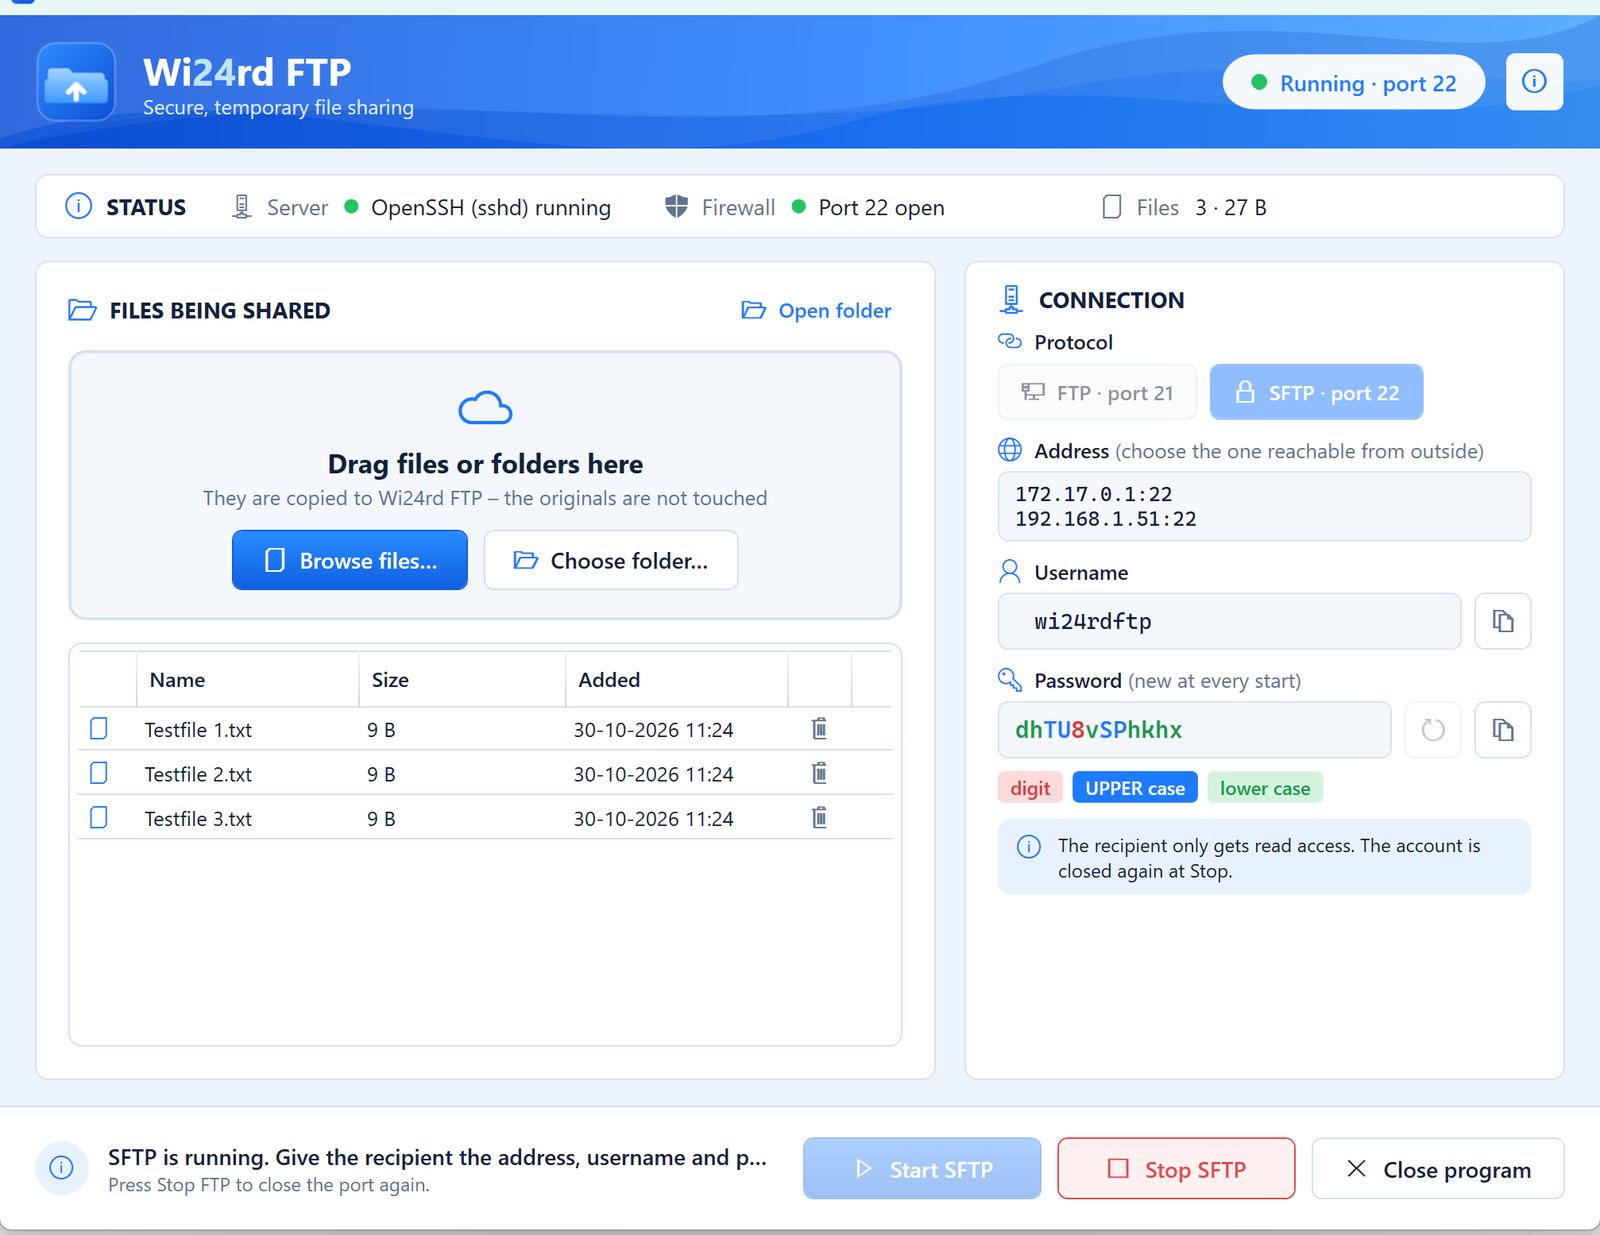
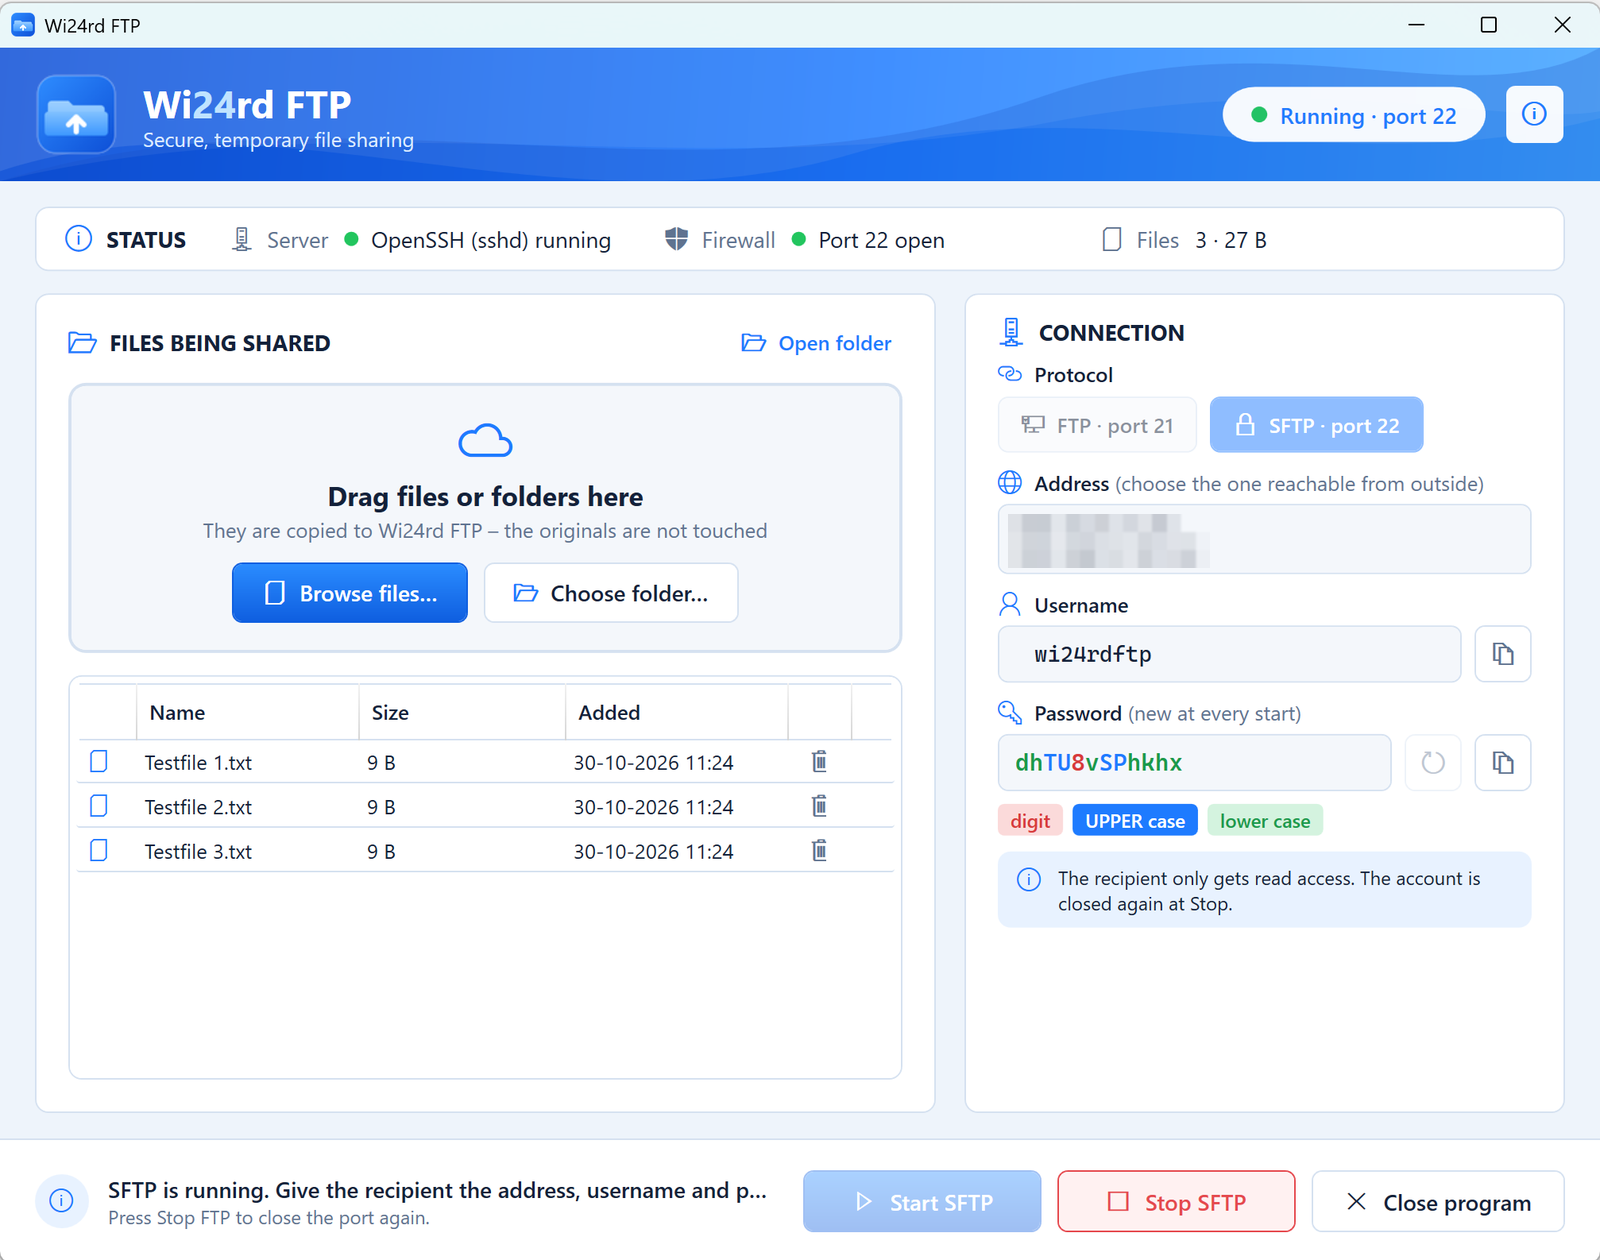
Fix SFTP sshd_config seeding, single delete prompt, button styling, bottom bar wrapping, live backend progress, preinstall OpenSSH, READMEs with download button, screenshot, free/no-tracking notice

diff --git a/README.da.md b/README.da.md
@@ -8,10 +8,16 @@
 [![Release](https://img.shields.io/github/v/release/wi24rd-com/Wi24rd-FTP?label=download)](https://github.com/wi24rd-com/Wi24rd-FTP/releases/latest)
 [![License: MIT](https://img.shields.io/badge/license-MIT-blue.svg)](LICENSE)
 
+<p align="center">
+  <a href="https://github.com/wi24rd-com/Wi24rd-FTP/releases/latest/download/Wi24rdFTP-Setup.exe">
+    <img src="https://img.shields.io/badge/⬇_Hent_Wi24rd_FTP_til_Windows-1E7BFF?style=for-the-badge&logoColor=white" alt="Hent Wi24rd FTP til Windows">
+  </a>
+  <br>
+  <sub>Windows 10/11 · 64-bit · ingen .NET-installation nødvendig · <a href="https://github.com/wi24rd-com/Wi24rd-FTP/releases">alle versioner</a></sub>
+</p>
+
 Super enkel, midlertidig fildeling oven på Windows 11's indbyggede **IIS FTP-server** (ftpsvc) og **OpenSSH** (sshd).
 Træk filer ind → Start → giv modtageren adresse + brugernavn + engangsadgangskode → Stop. Færdig.
-
-**Download:** [Wi24rdFTP-Setup.exe (nyeste version)](https://github.com/wi24rd-com/Wi24rd-FTP/releases/latest/download/Wi24rdFTP-Setup.exe) · Windows 10/11 64-bit · ingen .NET-installation nødvendig.
 
 > Installeren er endnu ikke kodesigneret, så SmartScreen kan vise "Windows beskyttede din pc" første gang. Klik *Flere oplysninger → Kør alligevel*, eller verificér SHA256 mod `SHA256SUMS.txt` på release-siden.
 

diff --git a/README.md b/README.md
@@ -8,10 +8,16 @@
 [![Release](https://img.shields.io/github/v/release/wi24rd-com/Wi24rd-FTP?label=download)](https://github.com/wi24rd-com/Wi24rd-FTP/releases/latest)
 [![License: MIT](https://img.shields.io/badge/license-MIT-blue.svg)](LICENSE)
 
+<p align="center">
+  <a href="https://github.com/wi24rd-com/Wi24rd-FTP/releases/latest/download/Wi24rdFTP-Setup.exe">
+    <img src="https://img.shields.io/badge/⬇_Download_Wi24rd_FTP_for_Windows-1E7BFF?style=for-the-badge&logoColor=white" alt="Download Wi24rd FTP for Windows">
+  </a>
+  <br>
+  <sub>Windows 10/11 · 64-bit · no .NET installation required · <a href="https://github.com/wi24rd-com/Wi24rd-FTP/releases">all versions</a></sub>
+</p>
+
 Dead-simple, temporary file sharing on top of Windows 11's built-in **IIS FTP server** (ftpsvc) and **OpenSSH** (sshd).
 Drag files in → Start → hand the recipient address + username + one-time password → Stop. Done.
-
-**Download:** [Wi24rdFTP-Setup.exe (latest)](https://github.com/wi24rd-com/Wi24rd-FTP/releases/latest/download/Wi24rdFTP-Setup.exe) · Windows 10/11 64-bit · no .NET installation required.
 
 > The installer is not code-signed yet, so SmartScreen may show "Windows protected your PC" the first time. Click *More info → Run anyway*, or verify the SHA256 against `SHA256SUMS.txt` on the release page.
 
